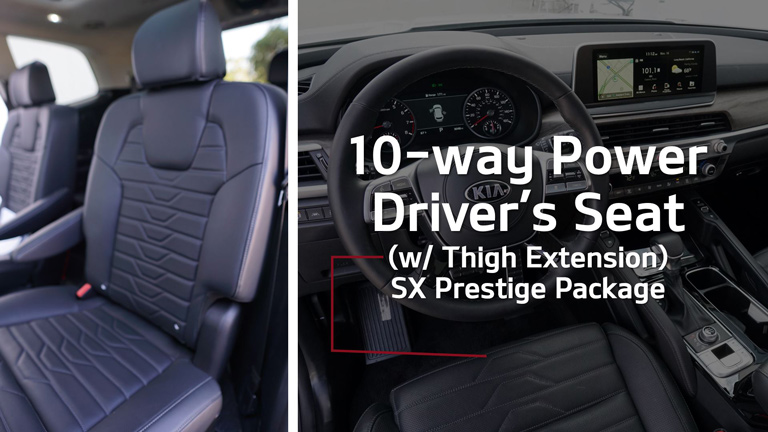
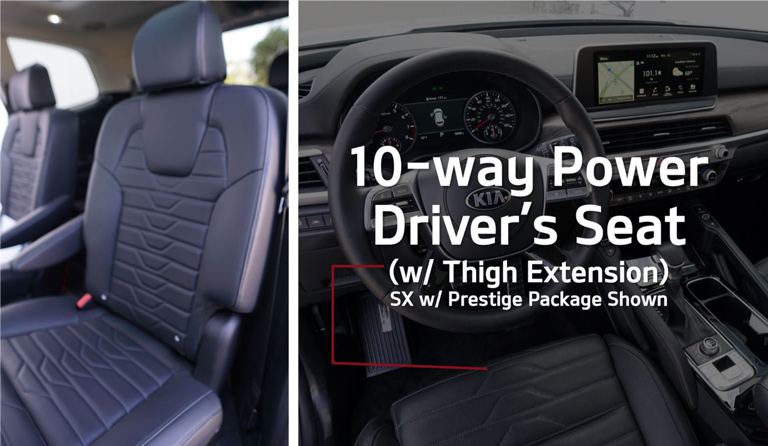
hands-on draft 1 content updates

diff --git a/src/app/main/its-on/hands-on-comparison/front-row/front-row.component.html b/src/app/main/its-on/hands-on-comparison/front-row/front-row.component.html
@@ -2,7 +2,7 @@
     <img src="../../../../../assets/images/front-row-main-header.jpg" width="100%" alt="Front Row (Advanced, Premium, Intuitive)">
 
     <div class="container">
-      <p>True to its Challenger roots, the Kia design team set its sights a class above the mainstream midsize SUV competition, benchmarking the Premium SUV Segment for levels of quality, design, and technology. The result? An advanced, premium, and innovative interior intended to redefine expectations for the segment.</p>
+      <p>True to its Challenger roots, the Kia design team set its sights a “class above” the mainstream midsize SUV competition, benchmarking the Premium SUV Segment for levels of quality, design, and technology. The result? An advanced, premium, and innovative interior intended to redefine expectations for the segment.</p>
 
       <p>Take this guided comparison tour of the first row and form your own opinion!</p>
 
@@ -45,7 +45,7 @@
           <ng-template matExpansionPanelContent>
             <img src="../../../../../assets/images/front-row-door-open-close.jpg" width="100%" alt="Door Open/Close Test">
 
-            <p>Did you know a customer’s first impression of quality often starts with the door handle? The sounds of the door opening and closing indicate the level of sound attenuative materials the manufacturer has invested in.</p>
+            <p>Did you know a customer’s first impression of quality often starts with the door handle? The sounds of the door opening and closing indicate the level of sound-attenuating materials the manufacturer has invested in.</p>
 
             <mat-checkbox name="q0201" #q0201="ngModel" [(ngModel)]="frontRow.q0201" (ngModelChange)="setCheck(q0201)">Open and close the driver’s front door. Repeat with the competitor.</mat-checkbox>
 
@@ -140,7 +140,7 @@
           <ng-template matExpansionPanelContent>
             <img src="../../../../../assets/images/front-row-10-way-drivers-seat.jpg" width="100%" alt="10-Way Power Driver’s Seat">
 
-            <p>You won’t have to settle for those stain-friendly cloth seats in any Telluride! To satisfy the needs of active families, Sofino&reg; leatherette seating surfaces are standard (LX and S), with leather (EX and SX), and Nappa&reg; leather (SX Prestige) available on a variety of grades.</p>
+            <p>You won’t have to settle for those stain-friendly cloth seats in any Telluride! To satisfy the needs of active families, Sofino&reg; leatherette seating surfaces are standard (LX and S), with leather (EX and SX), and Nappa&reg; leather (SX with Prestige Package) available on a variety of grades.</p>
 
             <div class="form-group">
               <label for="q0601">Notice the details and stitching on the Telluride seats. Aesthetically speaking, how do they compare to the competitive model?</label>
@@ -162,13 +162,13 @@
         </mat-expansion-panel>
         <mat-expansion-panel id="panel07" (opened)="scroll('panel07')">
           <mat-expansion-panel-header [collapsedHeight]="'auto'" [expandedHeight]="'auto'">
-            Heated and Ventilated Seating, 1<sup>st</sup> and 2<sup>nd</sup> Row Captain’s Chairs (SX Prestige)
+            Heated and Ventilated Seating, 1<sup>st</sup> and 2<sup>nd</sup> Row Captain’s Chairs (SX with Prestige Package)
           </mat-expansion-panel-header>
   
           <ng-template matExpansionPanelContent>
             <img src="../../../../../assets/images/front-row-heated-ventilated-seating.jpg" width="100%" alt="Heated and Ventilated Seating">
 
-            <p>Talk about a “surprise and delight” feature! SX Prestige models feature heated and ventilated seating for 1<sup>st</sup> and 2<sup>nd</sup> row captain’s chairs (a Kia first for the second row).</p>
+            <p>Talk about a “surprise and delight” feature! SX with Prestige Package models feature heated and ventilated seating for 1<sup>st</sup> and 2<sup>nd</sup> row captain’s chairs (a Kia first for the second row).</p>
 
             <mat-checkbox name="q0701" #q0701="ngModel" [(ngModel)]="frontRow.q0701" (ngModelChange)="setCheck(q0701)">Activate the toggles and observe the effect of heat... then ventilation. So nice, right?</mat-checkbox>
 
@@ -287,13 +287,13 @@
 
         <mat-expansion-panel id="panel12" (opened)="scroll('panel12')">
           <mat-expansion-panel-header [collapsedHeight]="'auto'" [expandedHeight]="'auto'">
-            8.5" Head Up Display (SX Prestige)
+            8.5" Head Up Display (SX with Prestige Package)
           </mat-expansion-panel-header>
 
           <ng-template matExpansionPanelContent>
             <img src="../../../../../assets/images/front-row-head-up-display.jpg" width="100%" alt="Head Up Display">
 
-            <p>For premium levels of safety and convenience, Telluride SX Prestige is equipped with an 8.5" Head Up Display.</p>
+            <p>For premium levels of safety and convenience, Telluride SX with Prestige Package is equipped with an 8.5" Head Up Display.</p>
 
             <div class="form-group">
               <label for="q1201">What controls are displayed on screen?</label>
@@ -397,7 +397,7 @@
           <ng-template matExpansionPanelContent>
             <img src="../../../../../assets/images/front-row-split-view-monitor.jpg" width="100%" alt="Split View Monitor">
 
-            <p class="mb-0">With a true HD display (1920p x 720p) this large, Telluride introduces Split View functionality, which can make drivers and passengers very happy. Working with your partner, see if you can observe the following split view monitor in action:</p>
+            <p class="mb-0">With a true HD display (1920p x 720p) this large, Telluride introduces Split View functionality, which can make drivers and passengers very happy. Working with your partner, see if you can find and/or observe these available Split View displays:</p>
 
             <mat-checkbox class="my-2" name="q1601" #q1601="ngModel" [(ngModel)]="frontRow.q1601" (ngModelChange)="setCheck(q1601)">Climate</mat-checkbox>
 
@@ -436,12 +436,11 @@
 
             <mat-checkbox name="q1702" #q1702="ngModel" [(ngModel)]="frontRow.q1702" (ngModelChange)="setCheck(q1702)">Clari-Fi is technology that restores the fidelity of streaming audio sources to maximize your listening enjoyment.</mat-checkbox>
 
-            <mat-checkbox name="q1703" #q1703="ngModel" [(ngModel)]="frontRow.q1703" (ngModelChange)="setCheck(q1703)">Demo Tip: Always use a high-quality audio source to demonstrate the full capability of the Harman/Kardon surround sound audio.
-              <ul>
-                <li>Do Use: High bit-rate digital audio file on your mobile device, Apple Music, Spotify, CD, Blu-Ray, etc.</li>
-                <li>Avoid: SiriusXM, FM, AM... even with Clari-Fi, the bit-rate of these audio sources will not do full justice to the sound system’s range of capability in a customer demo.</li>
-              </ul>
-            </mat-checkbox>
+            <p>Demo Tip: Always use a high-quality audio source to demonstrate the full capability of the Harman/Kardon surround sound audio.</p>
+            
+            <mat-checkbox name="q1703" #q1703="ngModel" [(ngModel)]="frontRow.q1703" (ngModelChange)="setCheck(q1703)">Do Use: High bit-rate digital audio file on your mobile device, Apple Music, Spotify, CD, Blu-Ray, etc.</mat-checkbox>
+            
+            <mat-checkbox name="q1704" #q1704="ngModel" [(ngModel)]="frontRow.q1704" (ngModelChange)="setCheck(q1704)">Avoid: SiriusXM, FM, AM... even with Clari-Fi, the bit-rate of these audio sources will not do full justice to the sound system’s range of capability in a customer demo.</mat-checkbox>
           </ng-template>
         </mat-expansion-panel>
 
@@ -449,9 +448,9 @@
 
         <img src="../../../../../assets/images/front-row-apple-carplay.jpg" width="100%" alt="Apple CarPlay">
 
-        <img src="../../../../../assets/images/front-row-apple-carplay-android-auto.jpg" width="100%" alt="Apple CarPlay + Android Auto">
+        <img src="../../../../../assets/images/front-row-android-auto.jpg" width="100%" alt="Android Auto">
 
-        <p>Telluride offers the simple and intuitive phone connectivity your target customers demand. You’ll want to become a “power user” of Android Auto and Apple Car Play, so see if you can accomplish the following tasks using the Voice Command prompt (press the Voice Command icon on the steering wheel and wait for an audio prompt):</p>
+        <p>Telluride offers the simple and intuitive phone connectivity your target customers demand. You’ll want to become a “power user” of Android Auto and Apple Car Play, so if you have a compatible iOS and/or Android cord handy, see if you can accomplish the following tasks: (If not, come back and try these at a later date!)</p>
 
         <mat-expansion-panel id="panel18" (opened)="scroll('panel18')">
           <mat-expansion-panel-header [collapsedHeight]="'auto'" [expandedHeight]="'auto'">
@@ -459,7 +458,14 @@
           </mat-expansion-panel-header>
   
           <ng-template matExpansionPanelContent>
-            <mat-checkbox name="q1801" #q1801="ngModel" [(ngModel)]="frontRow.q1801" (ngModelChange)="setCheck(q1801)">Connect your phone with the matching OS software (Apple or Android: you’ll need your own USB cord. If not, try these after the training!)</mat-checkbox>
+            <mat-checkbox name="q1801" #q1801="ngModel" [(ngModel)]="frontRow.q1801" (ngModelChange)="setCheck(q1801)">Connect your phone via the front row USB input with the matching phone cord. (You’ll need your own USB cord. If not, try these after the training!)</mat-checkbox>
+
+            <mat-checkbox name="q1802" #q1802="ngModel" [(ngModel)]="frontRow.q1802" (ngModelChange)="setCheck(q1802)">Check your phone setting to enable Apple CarPlay and/or Android Auto.</mat-checkbox>
+
+            <div class="form-group">
+              <label for="q1803">What steps did you need to take?</label>
+              <textarea class="form-control" id="q1803" rows="2" placeholder="Write something here..." name="q1803" #q1803="ngModel" [(ngModel)]="frontRow.q1803" (ngModelChange)="setText(q1803)"(blur)="setTextBlur(q1803)"></textarea>
+            </div>
           </ng-template>
         </mat-expansion-panel>
         <mat-expansion-panel id="panel19" (opened)="scroll('panel19')">

diff --git a/src/app/main/its-on/hands-on-comparison/second-third-row/second-third-row.component.html b/src/app/main/its-on/hands-on-comparison/second-third-row/second-third-row.component.html
@@ -2,7 +2,7 @@
     <img src="../../../../../assets/images/second-third-row-main-header.jpg" width="100%" alt="2nd and 3rd Row (No Second-Class Citizens!)">
 
     <div class="container">
-      <p>Telluride delivers class-leading spaciousness and all the comforts of home. Dive deeper and you’ll discover several “surprise and delight” features new to the midsize SUV segment. And to top it all off: Telluride comfortably accommodates 6' tall adults in all three rows at the same time! With Telluride, there are no “second class citizens” in any seat... and we’ll prove it!</p>
+      <p>Telluride delivers class-leading spaciousness and all the comforts of home. Dive deeper and you’ll discover several “surprise and delight” features new to the midsize SUV segment. And to top it all off: Telluride comfortably accommodates 6' tall adults in all three rows at the same time! With Telluride, there are no “second-class citizens” in any seat... and we’ll prove it!</p>
 
       <h4>Best-in-Class 2<sup>nd</sup> Row Accommodations</h4>
 
@@ -102,7 +102,7 @@
 
         <mat-expansion-panel id="panel04" (opened)="scroll('panel04')">
           <mat-expansion-panel-header [collapsedHeight]="'auto'" [expandedHeight]="'auto'">
-            2<sup>nd</sup> Row Ventilated Captain’s Seats (SX Prestige)
+            2<sup>nd</sup> Row Ventilated Captain’s Seats (SX with Prestige Package)
           </mat-expansion-panel-header>
   
           <ng-template matExpansionPanelContent>
@@ -146,7 +146,7 @@
             </div>
 
             <div class="form-group">
-              <label for="q0504">In total, how many USB terminals can you find in the Telluride SX Prestige?</label>
+              <label for="q0504">In total, how many USB terminals can you find in the Telluride SX with Prestige Package?</label>
               <textarea class="form-control" id="q0504" rows="2" placeholder="Write something here..." name="q0504" #q0504="ngModel" [(ngModel)]="secondThirdRow.q0504" (ngModelChange)="setText(q0504)"(blur)="setTextBlur(q0504)"></textarea>
             </div>
 
@@ -166,23 +166,29 @@
           <ng-template matExpansionPanelContent>
             <img src="../../../../../assets/images/second-third-row-hooks.jpg" width="100%" alt="Hooks (Back of Front-Row Seats">
 
-            <p>What are the hooks on the back of the front seat for?</p>
+            <div class="form-group">
+              <label for="q0601">What are the hooks on the back of the front seat for?</label>
+              <textarea class="form-control" id="q0601" rows="2" placeholder="Write something here..." name="q0601" #q0601="ngModel" [(ngModel)]="secondThirdRow.q0601" (ngModelChange)="setText(q0601)"(blur)="setTextBlur(q0601)"></textarea>
+            </div>
 
-            <mat-checkbox name="q0601" #q0601="ngModel" [(ngModel)]="secondThirdRow.q0601" (ngModelChange)="setCheck(q0601)">Use the shopping bag provided and test out the hook for yourself.</mat-checkbox>
+            <div class="form-group">
+              <label for="q0602">Discuss a few benefits of this feature with your partner.</label>
+              <textarea class="form-control" id="q0602" rows="2" placeholder="Write something here..." name="q0602" #q0602="ngModel" [(ngModel)]="secondThirdRow.q0602" (ngModelChange)="setText(q0602)"(blur)="setTextBlur(q0602)"></textarea>
+            </div>
           </ng-template>
         </mat-expansion-panel>
         <mat-expansion-panel id="panel07" (opened)="scroll('panel07')">
           <mat-expansion-panel-header [collapsedHeight]="'auto'" [expandedHeight]="'auto'">
-            Rear Cup Holder
+            Rear Cup Holders
           </mat-expansion-panel-header>
   
           <ng-template matExpansionPanelContent>
             <img src="../../../../../assets/images/second-third-row-rear-cup-holders.jpg" width="100%" alt="Rear Cup Holders">
 
-            <p>Get familiar with the rear cup holders located on the first row sliding tray.</p>
+            <p>The rear cup holder accommodates a wide variety of cup/bottle sizes and is placed conveniently at the back of the front row’s center console.</p>
 
             <div class="form-group">
-              <label for="q0701">Including this pair, how many cupholders can you count?</label>
+              <label for="q0701">Including this pair, how many cup holders can you count (look around the 2nd row)?</label>
               <textarea class="form-control" id="q0701" rows="2" placeholder="Write something here..." name="q0701" #q0701="ngModel" [(ngModel)]="secondThirdRow.q0701" (ngModelChange)="setText(q0701)"(blur)="setTextBlur(q0701)"></textarea>
             </div>
 
@@ -205,18 +211,13 @@
           <ng-template matExpansionPanelContent>
             <img src="../../../../../assets/images/second-third-row-ceiling-mounted-climate-controls.jpg" width="100%" alt="Ceiling Mounted Rear Climate Controls (segment first)">
 
-            <p>Ceiling mounted climate controls seek to enhance convenience when using the rear cup holders.</p>
+            <p>Telluride is one of the first in the segment to place the rear climate controls on the ceiling (most competitors place them on the back of the front-row center console).</p>
 
             <mat-checkbox name="q0801" #q0801="ngModel" [(ngModel)]="secondThirdRow.q0801" (ngModelChange)="setCheck(q0801)">Get familiar with the climate control console placement and functionality.</mat-checkbox>
 
             <div class="form-group">
               <label for="q0802">Compare to the competition. Which system offers easier access?</label>
               <textarea class="form-control" id="q0802" rows="2" placeholder="Write something here..." name="q0802" #q0802="ngModel" [(ngModel)]="secondThirdRow.q0802" (ngModelChange)="setText(q0802)"(blur)="setTextBlur(q0802)"></textarea>
-            </div>
-
-            <div class="form-group">
-              <label for="q0803">With your partner, come up with a story that could help customers visualize the benefit of this segment-first feature. (Thought starter: Imagine a car full of passengers returning home from a shopping mall on a hot afternoon... and everyone has a large drink in their hand!)</label>
-              <textarea class="form-control" id="q0803" rows="2" placeholder="Write something here..." name="q0803" #q0803="ngModel" [(ngModel)]="secondThirdRow.q0803" (ngModelChange)="setText(q0803)"(blur)="setTextBlur(q0803)"></textarea>
             </div>
           </ng-template>
         </mat-expansion-panel>

diff --git a/src/app/main/its-on/hands-on-comparison/exterior/exterior.component.html b/src/app/main/its-on/hands-on-comparison/exterior/exterior.component.html
@@ -194,11 +194,11 @@
 
         <img src="../../../../../assets/images/exterior-two-track-grade-strategy.jpg" width="100%" alt="Two Track Grade Strategy">
 
-        <p>The five Telluride trims are segmented into two grades: the Design Lineand Convenience Line. The idea here: simplify the ordering process and appeal to two unique customer preferences. Using the featured model, let’s take a visual tour of the <em>signature</em> exterior features <em>unique</em> to each grade.</p>
+        <p>The five Telluride trims are segmented into two grades: the Design Line and Convenience Line. The idea here: simplify the ordering process and appeal to two unique customer preferences. Using the featured model, let’s take a visual tour of the <em>signature</em> exterior features <em>unique</em> to each grade.</p>
 
         <mat-expansion-panel id="panel10" (opened)="scroll('panel10')">
           <mat-expansion-panel-header [collapsedHeight]="'auto'" [expandedHeight]="'auto'">
-            Design Line Visual Tour (S, SX, SX Prestige)
+            Design Line Visual Tour (S, SX, SX with Prestige Package)
           </mat-expansion-panel-header>
   
           <ng-template matExpansionPanelContent>
@@ -306,8 +306,6 @@
               <label for="q1406">Compare: How do these numbers stack up to your featured competitor?</label>
               <textarea class="form-control" id="q1406" rows="2" placeholder="Write something here..." name="q1406" #q1406="ngModel" [(ngModel)]="exterior.q1406" (ngModelChange)="setText(q1406)"(blur)="setTextBlur(q1406)"></textarea>
             </div>
-
-            <p class="text-danger">[lightbox with HP/Torque specs for featured competitors: Toyota Highlander, Jeep Grand Cherokee, and Ford Explorer]</p>
           </ng-template>
         </mat-expansion-panel>
         <mat-expansion-panel id="panel15" (opened)="scroll('panel15')">
@@ -334,7 +332,7 @@
 
             <p>Drive Mode seeks to inspire driver confidence by calibrating engine/throttle output and transmission shift points to achieve unique drive-performance characteristics.</p>
 
-            <mat-checkbox name="q1601" #q1601="ngModel" [(ngModel)]="exterior.q1601" (ngModelChange)="setCheck(q1601)">Can you locate the controls in the 1<sup>st</sup> row?</mat-checkbox>
+            <mat-checkbox name="q1601" #q1601="ngModel" [(ngModel)]="exterior.q1601" (ngModelChange)="setCheck(q1601)">Can you locate the controls in the 1<sup>st</sup> row (you may need to ask the Front Row team for help)?</mat-checkbox>
 
             <div class="form-group">
               <label for="q1602">What settings are available?</label>
@@ -367,7 +365,7 @@
         </mat-expansion-panel>
         <mat-expansion-panel id="panel18" (opened)="scroll('panel18')">
           <mat-expansion-panel-header [collapsedHeight]="'auto'" [expandedHeight]="'auto'">
-            All Wheel Drive (AWD, Standard on SX Prestige)
+            All Wheel Drive (AWD, Standard on SX with Prestige Package)
           </mat-expansion-panel-header>
 
           <ng-template matExpansionPanelContent>
@@ -375,9 +373,9 @@
 
             <p>Did you know that Telluride’s AWD system is <em>constantly</em> monitoring engine throttle, vehicle speed, wheel speed, steering angle, ABS, and stability control inputs? It’s true! Based on real-time feedback, the AWD system’s sophisticated control unit will:</p>
 
-            <mat-checkbox name="q1801" #q1801="ngModel" [(ngModel)]="exterior.q1801" (ngModelChange)="setCheck(q1801)">Transfer power from the front wheels to the rear wheels(for peak efficiency, the system is primarily a front-wheel-drive layout until the system detects the need to shift power).</mat-checkbox>
+            <mat-checkbox name="q1801" #q1801="ngModel" [(ngModel)]="exterior.q1801" (ngModelChange)="setCheck(q1801)">Transfer power from the front wheels to the rear wheels (for peak efficiency, the system is primarily a front-wheel-drive layout until the system detects the need to shift power).</mat-checkbox>
 
-            <mat-checkbox name="q1802" #q1802="ngModel" [(ngModel)]="exterior.q1802" (ngModelChange)="setCheck(q1802)">Utilize its rear differential unit to distribute power side-to-sideto maximize traction.</mat-checkbox>
+            <mat-checkbox name="q1802" #q1802="ngModel" [(ngModel)]="exterior.q1802" (ngModelChange)="setCheck(q1802)">Utilize its rear differential unit to distribute power side-to-side to maximize traction.</mat-checkbox>
 
             <mat-checkbox name="q1803" #q1803="ngModel" [(ngModel)]="exterior.q1803" (ngModelChange)="setCheck(q1803)">During all of this, no driver input is necessary, further enhancing driver confidence.</mat-checkbox>
           </ng-template>

diff --git a/src/app/main/its-on/hands-on-comparison/cargo/cargo.component.html b/src/app/main/its-on/hands-on-comparison/cargo/cargo.component.html
@@ -75,15 +75,17 @@
           </ng-template>
         </mat-expansion-panel>
 
-        <h4>Best-In-Class Cargo Capacity</h4>
+        <h4>Best-In-Class Cargo Capacity*</h4>
 
         <img src="../../../../../assets/images/cargo-capacity.gif" width="100%" alt="Best-In-Class Cargo Capacity">
 
         <ul>
           <li>Midsize SUV customers won’t be caught dead in a minivan... but they often need to use their SUV like a minivan.</li>
-          <li>This means they are toting a lot of people... or a lot of stuff... and sometimes, a lot of people AND stuff! It’s cool.</li>
-          <li>Telluride has your back. With a class-leading 21 cubic feet of storage space behind the 3<sup>rd</sup> row, Telluride has come to play. Here are some features that support this story...</li>
+          <li>This means they are toting a lot of people... or a lot of stuff... and sometimes, a lot of people AND stuff!</li>
+          <li>It’s cool, Telluride has your back. With a class-leading 21 cubic feet of storage space behind the 3<sup>rd</sup> row, Telluride has come to play. Here are some features that support this story...</li>
         </ul>
+
+        <p class="disclaimer">* Best-in-class cargo capacity behind 3rd row. Never load cargo above seat height.</p>
 
         <mat-expansion-panel id="panel04" (opened)="scroll('panel04')">
           <mat-expansion-panel-header [collapsedHeight]="'auto'" [expandedHeight]="'auto'">
@@ -338,7 +340,7 @@
               <textarea class="form-control" id="q1115" rows="2" placeholder="Write something here..." name="q1115" #q1115="ngModel" [(ngModel)]="cargo.q1115" (ngModelChange)="setText(q1115)"(blur)="setTextBlur(q1115)"></textarea>
             </div>
 
-            <p>* See the Product Reference Guide for a full description of the function and disclaimer for each ADAS technology.</p>
+            <p class="disclaimer">* See the Product Reference Guide for a full description of the function and disclaimer for each ADAS technology.</p>
           </ng-template>
         </mat-expansion-panel>
 

diff --git a/src/styles.scss b/src/styles.scss
@@ -383,6 +383,10 @@ form.quiz {
   }
 }
 
+.disclaimer {
+  font-size: 12px;
+}
+
 
 /*~~  Header ~~*/
 
